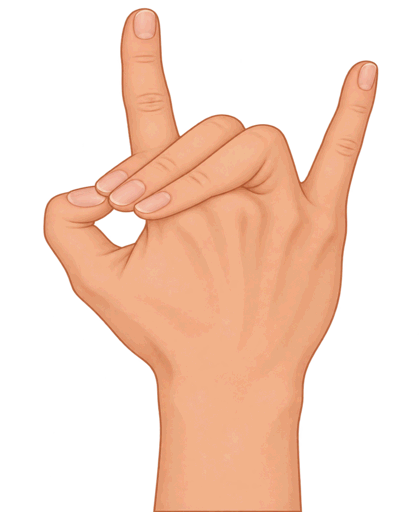
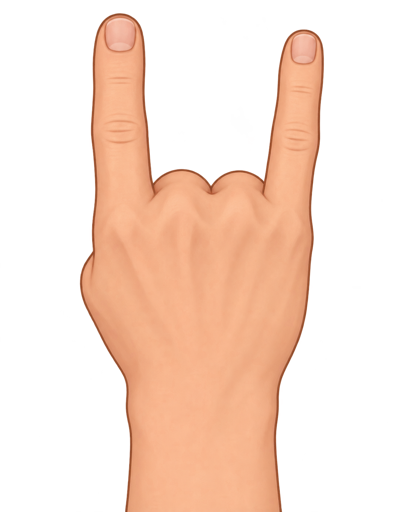
左右の手まね：「3」「キツネ」「グッド」の絵を、人の手でできる形に描き直し
持ち主の指摘「生物としておかしい・実現不可能」を受けて：
- 3：折った指の爪が甲側に見え、親指と絡まっていた → 人差し指・中指・薬指を立て、小指は折って関節の山だけ、親指は手のひら側に隠れる
- キツネ：中指・薬指が手の甲の上を横切っていた（1回目）、手のひら側と甲側が混ざっていた（2回目）
  → ほかの絵と同じ「右手の甲を自分に向けた見え方」：人差し指・小指を立て、中指・薬指は向こうへ折れて関節の山だけ、親指は隠れる
- グッド：こぶしがミトンのような塊だった → 握った4本が横向きに段々に重なり、親指がまっすぐ上に立つふつうの 👍
- 絵の版を 2 に（ブラウザに古い絵が残らないように）

Changed region(s): [[0.0929, 0.0, 0.9286, 1.0], [0.5571, 0.9688, 0.5881, 1.0]]

diff --git a/index.html b/index.html
@@ -2564,7 +2564,7 @@ const HAND_POSES={
 // 外で作った絵（Codex など）に差し替えるときは「ポーズ記号: 画像の場所」を書く。
 // 右手の絵を用意すれば、左手は左右反転して使う。 例: g:'hands/g.png'
 // 2026-11-06：12ポーズとも Codex（ChatGPT の画像生成）で描いた右手の甲の絵に差し替え（img/hands/）
-const HAND_IMG_VER='1';
+const HAND_IMG_VER='2';
 const HAND_IMAGES=Object.fromEntries(Object.keys(HAND_POSES).map(k=>[k,`img/hands/${k}.png?v=${HAND_IMG_VER}`]));
 // 絵は手まねを始めたときに先に読んでおく（出た瞬間に白くならないように）
 let HAND_PRELOADED=false;
@@ -3947,7 +3947,7 @@ goHome();
    Version check — 古い保存済みの画面が出ていたら、新しい版に切り替える
    （GitHub Pages は更新後しばらく古い版を返すことがあるため）
    ============================================================ */
-const APP_VER='2026-11-06 00:40';   // 更新のたびにこの日時を書き換える
+const APP_VER='2026-11-06 01:00';   // 更新のたびにこの日時を書き換える
 $('appVer').textContent='更新 '+APP_VER;
 (function checkVer(){
   if(location.protocol==='file:') return;
